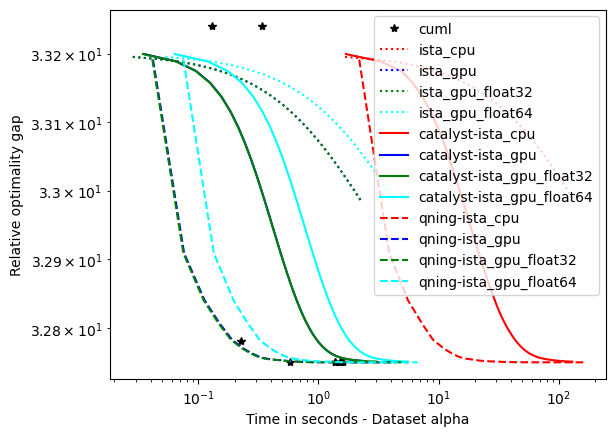
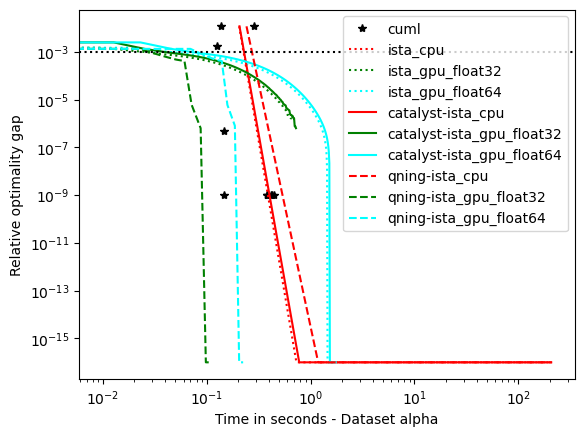
doc: update

diff --git a/docs/sphinx/source/tutorials.rst b/docs/sphinx/source/tutorials.rst
@@ -69,47 +69,44 @@ In the next example, we use the squared hinge loss with
 obtained solution has about 10\% non-zero coefficients. It runs on 16 threads.
 We also fit an intercept.::
 
-    from cyanure.estimators import Classifier
-    from cyanure.data_processing import preprocess
+    from cyanure_pytorch.estimators import Classifier
+    from cyanure_pytorch.data_processing import preprocess
     import numpy as np
-    import scipy.sparse
 
     #load rcv1 dataset about 1Gb, n=781265, p=47152
-    data = np.load('dataset/rcv1.npz',allow_pickle=True)
-    y=data['y']
-    y = np.squeeze(y)
-    X=data['X']
-
-    X = scipy.sparse.csc_matrix(X.all()).T # n x p matrix, csr format
+    data = np.load(datapath + 'epsilon.npz')
+    y=np.squeeze(data['arr_1'])
+    X=data['arr_0']
 
     #normalize the rows of X in-place, without performing any copy
     preprocess(X,normalize=True,columns=False)
     #declare a binary classifier for squared hinge loss + l1 regularization
-    classifier=Classifier(loss='sqhinge',penalty='l1',lambda_1=0.000005,max_iter=500,tol=1e-3, duality_gap_interval=10, verbose=True, fit_intercept=True)
+    classifier=Classifier(loss='logistic',penalty='l1',lambda_1=0.000244140625 * X.shape[0],max_iter=500,tol=1e-3, duality_gap_interval=10, verbose=True, fit_intercept=True)
     # uses the auto solver by default, performs at most 500 epochs
     classifier.fit(X,y) 
 
 which yields::
 
-    Info : Matrix X, n=781265, p=47152
-    Info : Memory parameter: 20
-    Info : *********************************
-    Info : QNing Accelerator
-    Info : MISO Solver
-    Info : Incremental Solver 
-    Info : with uniform sampling
-    Info : Lipschitz constant: 1
-    Info : Squared Hinge Loss is used
+    Info : Matrix X, n=250000, p=2000
+    Info : Catalyst Accelerator
+    Info : ISTA Solver
+    Info : Logistic Loss is used
     Info : L1 regularization
-    Info : Epoch: 10, primal objective: 0.0916455, time: 9.38925
-    Info : Best relative duality gap: 0.486061
-    Info : Epoch: 20, primal objective: 0.0916331, time: 18.2816
-    Info : Best relative duality gap: 0.0197286
-    Info : Epoch: 30, primal objective: 0.0916331, time: 30.6386
-    Info : Best relative duality gap: 0.000296367
-    Info : Time elapsed : 30.806
-    Info : Total additional line search steps: 4
-    Info : Total skipping l-bfgs steps: 0
+    Info : Epoch: 10, primal objective: 0.69314561929310380961, time: 5.66298200000000040433
+    Info : Best relative duality gap: 0.00000015295459037478
+    Info : Time elapsed : 5.92307700000000014739
+
+
+    2024-11-22 11:09:07,709 - INFO - simple_erm - Matrix X, n=250000, p=2000
+    2024-11-22 11:09:07,782 - INFO - accelerator - Catalyst Accelerator
+    2024-11-22 11:09:07,782 - INFO - ista - ISTA Solver
+    2024-11-22 11:09:07,798 - INFO - solver - *********************************
+    2024-11-22 11:09:07,798 - INFO - logistic - Logistic Loss is used
+    2024-11-22 11:09:07,798 - INFO - lasso - L1 regularization
+    2024-11-22 11:09:08,029 - INFO - solver - Epoch: 10, primal objective: tensor([0.69314563274383544922], device='cuda:0'), time: 0.20345
+    2024-11-22 11:09:08,074 - INFO - solver - Best relative duality gap: tensor([1.71983032259959145449e-07], device='cuda:0')
+    2024-11-22 11:09:08,074 - INFO - solver - This is the elapsed time: 0.2034461498260498
+
 
 
 Multiclass classification
@@ -118,13 +115,12 @@ Let us now do something a bit more involved and perform multinomial logistic reg
 *ckn_mnist* dataset (10 classes, n=60000, p=2304, dense matrix), with multi-task group lasso regularization,
 using 2 Intel(R) Xeon(R) Silver 4112 CPU @ 2.60GHz CPUs with 32Gb of memory., and choosing a regularization parameter that yields a solution with 5\% non zero coefficients.::
 
-    from cyanure.estimators import Classifier
-    from cyanure.data_processing import preprocess
+    from cyanure_pytorch.estimators import Classifier
+    from cyanure_pytorch.data_processing import preprocess
     import numpy as np
 
-
     #load ckn_mnist dataset 10 classes, n=60000, p=2304
-    data=np.load('dataset/ckn_mnist.npz')
+    data=np.load(datapath + 'ckn_mnist.npz')
     y=data['y']
     y = np.squeeze(y)
     X=data['X']
@@ -132,7 +128,7 @@ using 2 Intel(R) Xeon(R) Silver 4112 CPU @ 2.60GHz CPUs with 32Gb of memory., an
     #center and normalize the rows of X in-place, without performing any copy
     preprocess(X,centering=True,normalize=True,columns=False)
     #declare a multinomial logistic classifier with group Lasso regularization
-    classifier=Classifier(loss='multiclass-logistic',penalty='l1l2',lambda_1=0.0001,max_iter=500,tol=1e-3,duality_gap_interval=5, verbose=True, fit_intercept=False)
+    classifier=Classifier(loss='multiclass-logistic',penalty='l2', solver='qning-ista', lambda_1=0.0009765625*X.shape[0],max_iter=500,tol=1e-15,duality_gap_interval=5, verbose=True, fit_intercept=False)
     # uses the auto solver by default, performs at most 500 epochs
     classifier.fit(X,y)
 
@@ -140,42 +136,75 @@ which produces::
 
     Info : Matrix X, n=60000, p=2304
     Info : Memory parameter: 20
-    Info : *********************************
     Info : QNing Accelerator
-    Info : MISO Solver
-    Info : Incremental Solver 
-    Info : with uniform sampling
-    Info : Lipschitz constant: 0.25
+    Info : ISTA Solver
     Info : Multiclass logistic Loss is used
-    Info : Mixed L1-L2 norm regularization
-    Info : Epoch: 5, primal objective: 0.340267, time: 23.5437
-    Info : Best relative duality gap: 0.332296
-    Info : Epoch: 10, primal objective: 0.337646, time: 47.2198
-    Info : Best relative duality gap: 0.069921
-    Info : Epoch: 15, primal objective: 0.337337, time: 70.9591
-    Info : Best relative duality gap: 0.0177314
-    Info : Epoch: 20, primal objective: 0.337294, time: 94.5435
-    Info : Best relative duality gap: 0.0106599
-    Info : Epoch: 25, primal objective: 0.337285, time: 127.509
-    Info : Best relative duality gap: 0.00454883
-    Info : Epoch: 30, primal objective: 0.337284, time: 160.711
-    Info : Best relative duality gap: 0.00094165
-    Info : Time elapsed : 161.034
-    Info : Total additional line search steps: 4
-    Info : Total skipping l-bfgs steps: 0
+    Info : L2 regularization
+    Info : Epoch: 5, primal objective: 1.34660935401916503906, time: 1.07866200000000000969
+    Info : Best relative duality gap: 0.40878400206565856934
+    Info : Epoch: 10, primal objective: 1.17538738250732421875, time: 1.93717999999999990202
+    Info : Best relative duality gap: 0.01453427784144878387
+    Info : Epoch: 15, primal objective: 1.16761827468872070312, time: 2.79002499999999997726
+    Info : Best relative duality gap: 0.00151061406359076500
+    Info : Epoch: 20, primal objective: 1.16685760021209716797, time: 3.64184000000000018815
+    Info : Best relative duality gap: 0.00085969886276870966
+    Info : Epoch: 25, primal objective: 1.16679251194000244141, time: 4.50452000000000030155
+    Info : Best relative duality gap: 0.00001185153087135404
+    Info : Epoch: 30, primal objective: 1.16678476333618164062, time: 5.46062199999999986488
+    Info : Best relative duality gap: 0.00000143036663757812
+    Info : Epoch: 35, primal objective: 1.16678380966186523438, time: 6.96293999999999968509
+    Info : Best relative duality gap: -0.00000398459633288439
+    Info : Time elapsed : 7.04140799999999966730
+    Info : Total additional line search steps: 1
+    Info : Total skipping l-bfgs steps: 2
+
+    2024-11-21 17:27:16,101 - INFO - multi_erm - Matrix X, n=60000, p=2304
+    2024-11-21 17:27:16,158 - INFO - accelerator - QNing Accelerator
+    2024-11-21 17:27:16,158 - INFO - ista - ISTA Solver
+    2024-11-21 17:27:16,219 - INFO - accelerator - Memory parameter: 20
+    2024-11-21 17:27:16,227 - INFO - solver - *********************************
+    2024-11-21 17:27:16,227 - INFO - multi_class_logistic - Multiclass logistic Loss is used
+    2024-11-21 17:27:16,227 - INFO - ridge - L2 regularization
+    2024-11-21 17:27:16,708 - INFO - solver - Epoch: 5, primal objective: tensor([1.34660909712377696579], device='cuda:0'), time: 0.50826
+    2024-11-21 17:27:16,776 - INFO - solver - Best relative duality gap: tensor([0.40876695758362174837], device='cuda:0')
+    2024-11-21 17:27:16,918 - INFO - solver - Epoch: 10, primal objective: tensor([1.17538727249934416008], device='cuda:0'), time: 0.75384
+    2024-11-21 17:27:16,929 - INFO - solver - Best relative duality gap: tensor([0.01456019001919470722], device='cuda:0')
+    2024-11-21 17:27:17,074 - INFO - solver - Epoch: 15, primal objective: tensor([1.16761827068007839614], device='cuda:0'), time: 0.90962
+    2024-11-21 17:27:17,085 - INFO - solver - Best relative duality gap: tensor([0.00151743933299837062], device='cuda:0')
+    2024-11-21 17:27:17,232 - INFO - solver - Epoch: 20, primal objective: tensor([1.16685757526350597502], device='cuda:0'), time: 1.06818
+    2024-11-21 17:27:17,244 - INFO - solver - Best relative duality gap: tensor([0.00086651061339404446], device='cuda:0')
+    2024-11-21 17:27:17,394 - INFO - solver - Epoch: 25, primal objective: tensor([1.16679242465549570795], device='cuda:0'), time: 1.22931
+    2024-11-21 17:27:17,405 - INFO - solver - Best relative duality gap: tensor([3.85046781787790604848e-05], device='cuda:0')
+    2024-11-21 17:27:17,576 - INFO - solver - Epoch: 30, primal objective: tensor([1.16678509730836377223], device='cuda:0'), time: 1.41183
+    2024-11-21 17:27:17,587 - INFO - solver - Best relative duality gap: tensor([5.21347885587373416951e-06], device='cuda:0')
+    2024-11-21 17:27:17,730 - INFO - solver - Epoch: 35, primal objective: tensor([1.16678362581394057251], device='cuda:0'), time: 1.56620
+    2024-11-21 17:27:17,741 - INFO - solver - Best relative duality gap: tensor([3.20806198834368214258e-07], device='cuda:0')
+    2024-11-21 17:27:17,885 - INFO - solver - Epoch: 40, primal objective: tensor([1.16678349137343806419], device='cuda:0'), time: 1.72061
+    2024-11-21 17:27:17,896 - INFO - solver - Best relative duality gap: tensor([3.28692449350012228603e-08], device='cuda:0')
+    2024-11-21 17:27:18,039 - INFO - solver - Epoch: 45, primal objective: tensor([1.16678347677815530403], device='cuda:0'), time: 1.87507
+    2024-11-21 17:27:18,050 - INFO - solver - Best relative duality gap: tensor([3.18125686726953981710e-09], device='cuda:0')
+    2024-11-21 17:27:18,194 - INFO - solver - Epoch: 50, primal objective: tensor([1.16678347529696058160], device='cuda:0'), time: 2.02985
+    2024-11-21 17:27:18,205 - INFO - solver - Best relative duality gap: tensor([2.89937497949730604950e-10], device='cuda:0')
+    2024-11-21 17:27:18,349 - INFO - solver - Epoch: 55, primal objective: tensor([1.16678347518372782510], device='cuda:0'), time: 2.18473
+    2024-11-21 17:27:18,359 - WARNING - solver - The solution does not improve anymore, solving has been stopped.
+    2024-11-21 17:27:18,360 - INFO - solver - Best relative duality gap: tensor([3.60835205423188893144e-11], device='cuda:0')
+    2024-11-21 17:27:18,360 - INFO - solver - This is the elapsed time: 2.1847290992736816
+    2024-11-21 17:27:18,360 - INFO - accelerator - Total additional line search steps: 1
+    2024-11-21 17:27:18,360 - INFO - accelerator - Total skipping l-bfgs steps: 2
+
+
 
 
 
 Learning the multiclass classifier took about 5mn and 26s. To conclude, we provide a last more classical example
 of learning l2-logistic regression classifiers on the same dataset, in a one-vs-all fashion.::
 
-    from cyanure.estimators import Classifier
-    from cyanure.data_processing import preprocess
+    from cyanure_pytorch.estimators import Classifier
+    from cyanure_pytorch.data_processing import preprocess
     import numpy as np
 
-
     #load ckn_mnist dataset 10 classes, n=60000, p=2304
-    data=np.load('dataset/ckn_mnist.npz')
+    data=np.load(datapath + 'ckn_mnist.npz')
     y=data['y']
     y = np.squeeze(y)
     X=data['X']
@@ -183,35 +212,70 @@ of learning l2-logistic regression classifiers on the same dataset, in a one-vs-
     #center and normalize the rows of X in-place, without performing any copy
     preprocess(X,centering=True,normalize=True,columns=False)
     #declare a multinomial logistic classifier with group Lasso regularization
-    classifier=Classifier(loss='logistic',penalty='l2',lambda_1=0.01/X.shape[0],max_iter=500,tol=1e-3,duality_gap_interval=10, multi_class="ovr",verbose=True, fit_intercept=False)
+    classifier=Classifier(loss='logistic',penalty='l2',lambda_1=58.59375,max_iter=500,tol=1e-5,duality_gap_interval=10, multi_class="ovr",verbose=True, fit_intercept=False)
     # uses the auto solver by default, performs at most 500 epochs
     classifier.fit(X,y)
+
 
 Then, the 10 classifiers are learned in parallel using the 2 CPUs, which gives the following output after about 18 sec::
     
     Info : Matrix X, n=60000, p=2304
-    Info : Solver 7 has terminated after 30 epochs in 20.0901 seconds
-    Info :    Primal objective: 0.0105676, relative duality gap: 0.000956126
-    Info : Solver 9 has terminated after 30 epochs in 20.5337 seconds
-    Info :    Primal objective: 0.0162128, relative duality gap: 0.000267688
-    Info : Solver 2 has terminated after 40 epochs in 25.8979 seconds
-    Info :    Primal objective: 0.010768, relative duality gap: 3.20012e-05
-    Info : Solver 1 has terminated after 40 epochs in 26.1818 seconds
-    Info :    Primal objective: 0.00555594, relative duality gap: 0.000841066
-    Info : Solver 5 has terminated after 40 epochs in 26.4256 seconds
-    Info :    Primal objective: 0.00918652, relative duality gap: 5.50489e-05
-    Info : Solver 4 has terminated after 50 epochs in 28.2959 seconds
-    Info :    Primal objective: 0.00892122, relative duality gap: 4.20708e-05
-    Info : Solver 0 has terminated after 50 epochs in 28.4744 seconds
-    Info :    Primal objective: 0.00581546, relative duality gap: 4.98054e-05
-    Info : Solver 3 has terminated after 50 epochs in 28.6934 seconds
-    Info :    Primal objective: 0.00806731, relative duality gap: 4.7563e-05
-    Info : Solver 8 has terminated after 50 epochs in 28.8942 seconds
-    Info :    Primal objective: 0.0154151, relative duality gap: 1.63124e-05
-    Info : Solver 6 has terminated after 50 epochs in 29.0729 seconds
-    Info :    Primal objective: 0.00696687, relative duality gap: 3.22834e-05
+    Info : Solver 8 has terminated after 20.00000000000000000000 epochs in 10.96056175231933593750 seconds
+    Info :    Primal objective: 0.24975199997425079346, relative duality gap: -0.00000107394896531332
+    Info : Solver 0 has terminated after 20.00000000000000000000 epochs in 11.69469165802001953125 seconds
+    Info :    Primal objective: 0.20580284297466278076, relative duality gap: -0.00000890581850399030
+    Info : Solver 4 has terminated after 20.00000000000000000000 epochs in 12.47539710998535156250 seconds
+    Info :    Primal objective: 0.22394967079162597656, relative duality gap: -0.00000459112152384478
+    Info : Solver 7 has terminated after 20.00000000000000000000 epochs in 15.23751926422119140625 seconds
+    Info :    Primal objective: 0.17513881623744964600, relative duality gap: 0.00000059557402209975
+    Info : Solver 3 has terminated after 20.00000000000000000000 epochs in 15.92408370971679687500 seconds
+    Info :    Primal objective: 0.20927692949771881104, relative duality gap: -0.00000583865221415181
+    Warning : Your problem is prone to numerical instability. It would be safer to use double.
+    Info : Solver 2 has terminated after 50.00000000000000000000 epochs in 29.63804054260253906250 seconds
+    Info :    Primal objective: 0.22416828572750091553, relative duality gap: 0.00007252215436892584
+    Warning : Your problem is prone to numerical instability. It would be safer to use double.
+    Info : Solver 5 has terminated after 70.00000000000000000000 epochs in 35.79794311523437500000 seconds
+    Info :    Primal objective: 0.18814966082572937012, relative duality gap: 0.00001275095019082073
+    Warning : Your problem is prone to numerical instability. It would be safer to use double.
+    Info : Solver 6 has terminated after 70.00000000000000000000 epochs in 36.60394668579101562500 seconds
+    Info :    Primal objective: 0.19530247151851654053, relative duality gap: 0.00038812740240246058
+    Warning : Your problem is prone to numerical instability. It would be safer to use double.
+    Info : Solver 1 has terminated after 80.00000000000000000000 epochs in 39.07707595825195312500 seconds
+    Info :    Primal objective: 0.13079862296581268311, relative duality gap: 0.00001492410319769988
+    Warning : Your problem is prone to numerical instability. It would be safer to use double.
+    Info : Solver 9 has terminated after 90.00000000000000000000 epochs in 39.81833648681640625000 seconds
+    Info :    Primal objective: 0.25878179073333740234, relative duality gap: 0.00001071024325938197
     Info : Time for the one-vs-all strategy
-    Info : Time elapsed : 29.3725
+    Info : Time elapsed : 39.84983400000000131058
+
+
+
+    2024-11-21 15:48:18,836 - INFO - multi_erm - Matrix X, n=60000, p=2304
+    2024-11-21 15:48:27,789 - INFO - multi_erm - Solver 0 has terminated after 500.0 epochs in 8.92084789276123 seconds
+    2024-11-21 15:48:27,790 - INFO - multi_erm -    Primal objective: 0.20580457427388008, relative duality gap: 9.707249846837206e-06
+    2024-11-21 15:48:36,610 - INFO - multi_erm - Solver 1 has terminated after 500.0 epochs in 8.775974750518799 seconds
+    2024-11-21 15:48:36,610 - INFO - multi_erm -    Primal objective: 0.1307992765715999, relative duality gap: 1.2421890926748529e-05
+    2024-11-21 15:48:45,379 - INFO - multi_erm - Solver 2 has terminated after 500.0 epochs in 8.723823070526123 seconds
+    2024-11-21 15:48:45,379 - INFO - multi_erm -    Primal objective: 0.22417289945725252, relative duality gap: 2.7430488492892824e-05
+    2024-11-21 15:48:54,162 - INFO - multi_erm - Solver 3 has terminated after 500.0 epochs in 8.736879825592041 seconds
+    2024-11-21 15:48:54,163 - INFO - multi_erm -    Primal objective: 0.20928146978693712, relative duality gap: 2.208283650841875e-05
+    2024-11-21 15:49:02,977 - INFO - multi_erm - Solver 4 has terminated after 500.0 epochs in 8.773399114608765 seconds
+    2024-11-21 15:49:02,977 - INFO - multi_erm -    Primal objective: 0.22395336127456733, relative duality gap: 2.3133542221329766e-05
+    2024-11-21 15:49:11,773 - INFO - multi_erm - Solver 5 has terminated after 500.0 epochs in 8.750984191894531 seconds
+    2024-11-21 15:49:11,773 - INFO - multi_erm -    Primal objective: 0.18815317301783568, relative duality gap: 2.5039743133227696e-05
+    2024-11-21 15:49:20,538 - INFO - multi_erm - Solver 6 has terminated after 500.0 epochs in 8.718018531799316 seconds
+    2024-11-21 15:49:20,539 - INFO - multi_erm -    Primal objective: 0.19528435559928414, relative duality gap: 1.3474321095759592e-05
+    2024-11-21 15:49:29,362 - INFO - multi_erm - Solver 7 has terminated after 500.0 epochs in 8.782743215560913 seconds
+    2024-11-21 15:49:29,362 - INFO - multi_erm -    Primal objective: 0.17514023007756355, relative duality gap: 1.2594092475734544e-05
+    2024-11-21 15:49:38,157 - INFO - multi_erm - Solver 8 has terminated after 500.0 epochs in 8.750588417053223 seconds
+    2024-11-21 15:49:38,158 - INFO - multi_erm -    Primal objective: 0.24975907330736724, relative duality gap: 3.1220033296235936e-05
+    2024-11-21 15:49:46,923 - INFO - multi_erm - Solver 9 has terminated after 500.0 epochs in 8.72121000289917 seconds
+    2024-11-21 15:49:46,923 - INFO - multi_erm -    Primal objective: 0.25878863035262567, relative duality gap: 3.7129335857905706e-05
+    2024-11-21 15:49:46,924 - INFO - multi_erm - Time for the one-vs-all strategy
+    2024-11-21 15:49:46,924 - INFO - multi_erm - Elapsed time: 88.08702564239502
+
+
+
 
 
 

diff --git a/docs/sphinx/source/benchmarks.rst b/docs/sphinx/source/benchmarks.rst
@@ -7,13 +7,14 @@ present.
 
 Datasets
 --------
-We will present the results obtained by the solvers of Cyanure on 11
-datasets, presented in the Table below. The 9 first datasets can be found on the
+We will present the results obtained by the solvers of Cyanure on 8
+datasets, presented in the Table below. The 5 first datasets can be found on the
 `LIBSVM dataset web-page <https://www.csie.ntu.edu.tw/~cjlin/libsvmtools/datasets/>`_.
-The last dataset is generated by encoding the `MNIST <http://yann.lecun.com/exdb/mnist/>`_  dataset with a two-layer `convolutional kernel network (CKN), NIPS'16 <https://hal.inria.fr/hal-01387399/document>`_.
+The **ckn_mnist** dataset is generated by encoding the `MNIST <http://yann.lecun.com/exdb/mnist/>`_  dataset with a two-layer `convolutional kernel network (CKN), NIPS'16 <https://hal.inria.fr/hal-01387399/document>`_.
+The last two dataset have been created by extracting the frozen representations given by models pre-trained with `DINO <https://arxiv.org/pdf/2104.14294>`_
 All datasets samples are normalized with :math:`\ell_2`-norm and centered for dense datasets.
 
-.. note:: Many of the datasets I used are available `here <http://pascal.inrialpes.fr/data2/mairal/data/>`_.  Thanks to Chih-Jen for allowing me to post them here in .npz format. Note that the Criteo datasets comes from the `Kaggle display advertising challenge <http://labs.criteo.com/2014/02/kaggle-display-advertising-challenge-dataset/>`_
+.. note:: Many of the datasets we used are available `here <http://pascal.inrialpes.fr/data2/mairal/data/>`_.  Thanks to Chih-Jen for allowing Julien to post them here in .npz format.
 
 +------------+------------+--------------+-------------+-----------+--------------+
 | Dataset    | Sparse     | Num classes  | n           | p         | Size (in Gb) |
@@ -28,27 +29,25 @@ All datasets samples are normalized with :math:`\ell_2`-norm and centered for de
 +------------+------------+--------------+-------------+-----------+--------------+
 | ocr        | No         | 1            | 2500000     | 1155      | 23.1         |
 +------------+------------+--------------+-------------+-----------+--------------+
-| ckn_mnist  | No         | 10           | 60000       |   2304    | 0.55         |
+| ckn_mnist  | No         | 10           | 60000       | 2304      | 0.55         |
 +------------+------------+--------------+-------------+-----------+--------------+
-| imnet      | No         | 1            | 250000      | 2000      | 9.8            |
+| imnet      | No         | 1000         | 1281167     | 2048      | 9.8          |
 +------------+------------+--------------+-------------+-----------+--------------+
-| places     | No         | 1            | 2500000     | 1155      | 19         |
+| places     | No         | 205          | 2448873     | 2048      | 19           |
 +------------+------------+--------------+-------------+-----------+--------------+
-| inat       | No         | 10           | 60000       |   2304    | 3.3        |
-+------------+------------+--------------+-------------+-----------+--------------+
-
 
 Setup
 -----
-To select a reasonable regularization parameter :math:`\lambda` for each dataset, we first split each dataset into 80% training and 20% validation, and select the optimal parameter from a logarithmic grid :math:`2^{-i}/n` with :math:`i=1,\ldots,16` when evaluating trained model on the validation set. Then, we keep the optimal parameter :math:`\lambda`, merge training and validation sets and report the objective function values in terms of CPU time for various solvers. The CPU time is reported when running the different methods on an Intel(R) Xeon(R) Gold 6130 CPU @ 2.10GHz with 128Gb of memory (in order to be able to handle the ckn_svhn dataset), limiting the maximum number of cores to 8. Note that most solvers of Cyanure are sequential algorithms that do not exploit multi-core capabilities. Those are nevertheless exploited by the Intel MKL library that we use for dense matrices. Gains with multiple cores are mostly noticeable for the methods ista, [FISTA]_, and qning-ista, which are able to exploit BLAS3 (matrix-matrix multiplication) instructions.
-Experiments were conducted on Linux using the Anaconda Python 3.7 distribution.
+To select a reasonable regularization parameter :math:`\lambda` for each dataset, we first split each dataset into 80% training and 20% validation, and select the optimal parameter from a logarithmic grid :math:`2^{-i}/n` with :math:`i=1,\ldots,16` when evaluating trained model on the validation set. Then, we keep the optimal parameter :math:`\lambda`, merge training and validation sets and report the objective function values in terms of execution time for various solvers. The experiments are run on one Intel(R) Xeon(R) Gold 6430 having access to 126 Go of RAM and a NVIDIA 6000 ADA GPU (48 Go of memory). 
+Experiments were conducted on Linux using the Mamba Python 3.11 distribution.
 
 In the evaluation, we include solvers that can be called from scikit-learn, such as [LIBLINEAR]_, [LBFGS]_, newton-cg, or the [SAGA]_ implementation of scikit-learn. We run each solver with different tolerance parameter tol=0.1,0.01,0.001,0.0001 in order to obtain several points illustrating their accuracy-speed trade-off. Each method is run for at most 500 epochs. 
 
+In the evaluation, we include solvers that can be called from CuML, such as [LBFGS]_ or [OWL-QN]_. We run each solver with different tolerance parameter tol=0.1,0.01,0.001,0.0001 in order to obtain several points illustrating their accuracy-speed trade-off. Each method is run for at most 500 epochs. 
 
 Results
 -------
-The results are presented below. There are 11 datasets, and we are going to
+The results are presented below. There are 8 datasets, and we are going to
 group them into categories leading to similar conclusions. We start with those
 requiring a small regularization parameter (e.g., :math:`\lambda=1/(100n)`),
 which lead to more difficult optimization problems since there is less strong
@@ -72,8 +71,9 @@ the dimension p for covtype is so small that regularization is useless.
 This leads to an interesting setting with clear conclusions.
 
 Conclusions
- - **qning and catalyst accelerations are very useful**. Note that catalyst works well in practice both for [SVRG]_ and miso (regular miso, not shown on the plots, is an order of magnitude slower than its accelerated variants).  
- - **qning-miso and catalyst-miso are the best solvers here**, better than svrg variants. The main reason is the fact that for t iterations, svrg computes 3t gradients, vs. only t for the miso algorithms. miso also better handle sparse matrices (no need to code lazy update strategies, which can be painful to implement).
+ - **qning and catalyst accelerations are very useful**. Note that catalyst works well in practice.
+ - **The GPU version is at least 10 times faster than the CPU one**. When we compare the two versions the GPU version is much faster, and we will see in the following part that bigger the dataset is bigger is the speed gap. (It is possible to almost reach a 100 times speedup)
+ - **We can observe a significative difference for the solution depending on features datatype.** 
  - **Cyanure does better than sklearn-saga, lbfgs, and liblinear**, sometimes with several orders of magnitudes. Note that sklearn-saga does as bad as our regular srvg solver for these dataset, which confirms that the key to obtain faster results is acceleration.
    Note that Liblinear-dual is very competitive on large sparse datasets (see next part of the benchmark).
 
@@ -94,16 +94,12 @@ The results below are consistent with theory and we can draw the following concl
 
 - **qning-miso and catalyst-miso are still among the best solvers** here, but the difference with svrg is smaller. sklearn-saga is sometimes competitive, sometimes not.
 
-- **Liblinear-dual is competitive on large sparse
-  datasets**.
 
 .. image:: figs/alpha_logistic_l2.png
 
 .. image:: figs/ocr_logistic_l2.png
 
 .. image:: figs/imnet_logistic_l2.png
-
-.. image:: figs/inat_logistic_l2.png
 
 .. image:: figs/places_logistic_l2.png
 

diff --git a/docs/sphinx/source/references.rst b/docs/sphinx/source/references.rst
@@ -31,3 +31,4 @@ Other solvers in our comparisons include also
 
 .. [LIBLINEAR]  Fan, R. E., Chang, K. W., Hsieh, C. J., Wang, X. R., & Lin, C. J. (2008). LIBLINEAR: A library for large linear classification. Journal of machine learning research, 9(Aug), 1871-1874.
 .. [LBFGS] Nocedal, J. (1980). "Updating Quasi-Newton Matrices with Limited Storage". Mathematics of Computation. 35 (151): 773–782
+.. [OWL-QN] Andrew, G., & Gao, J. (2007). Scalable training of L1-regularized log-linear models. International Conference on Machine Learning.
